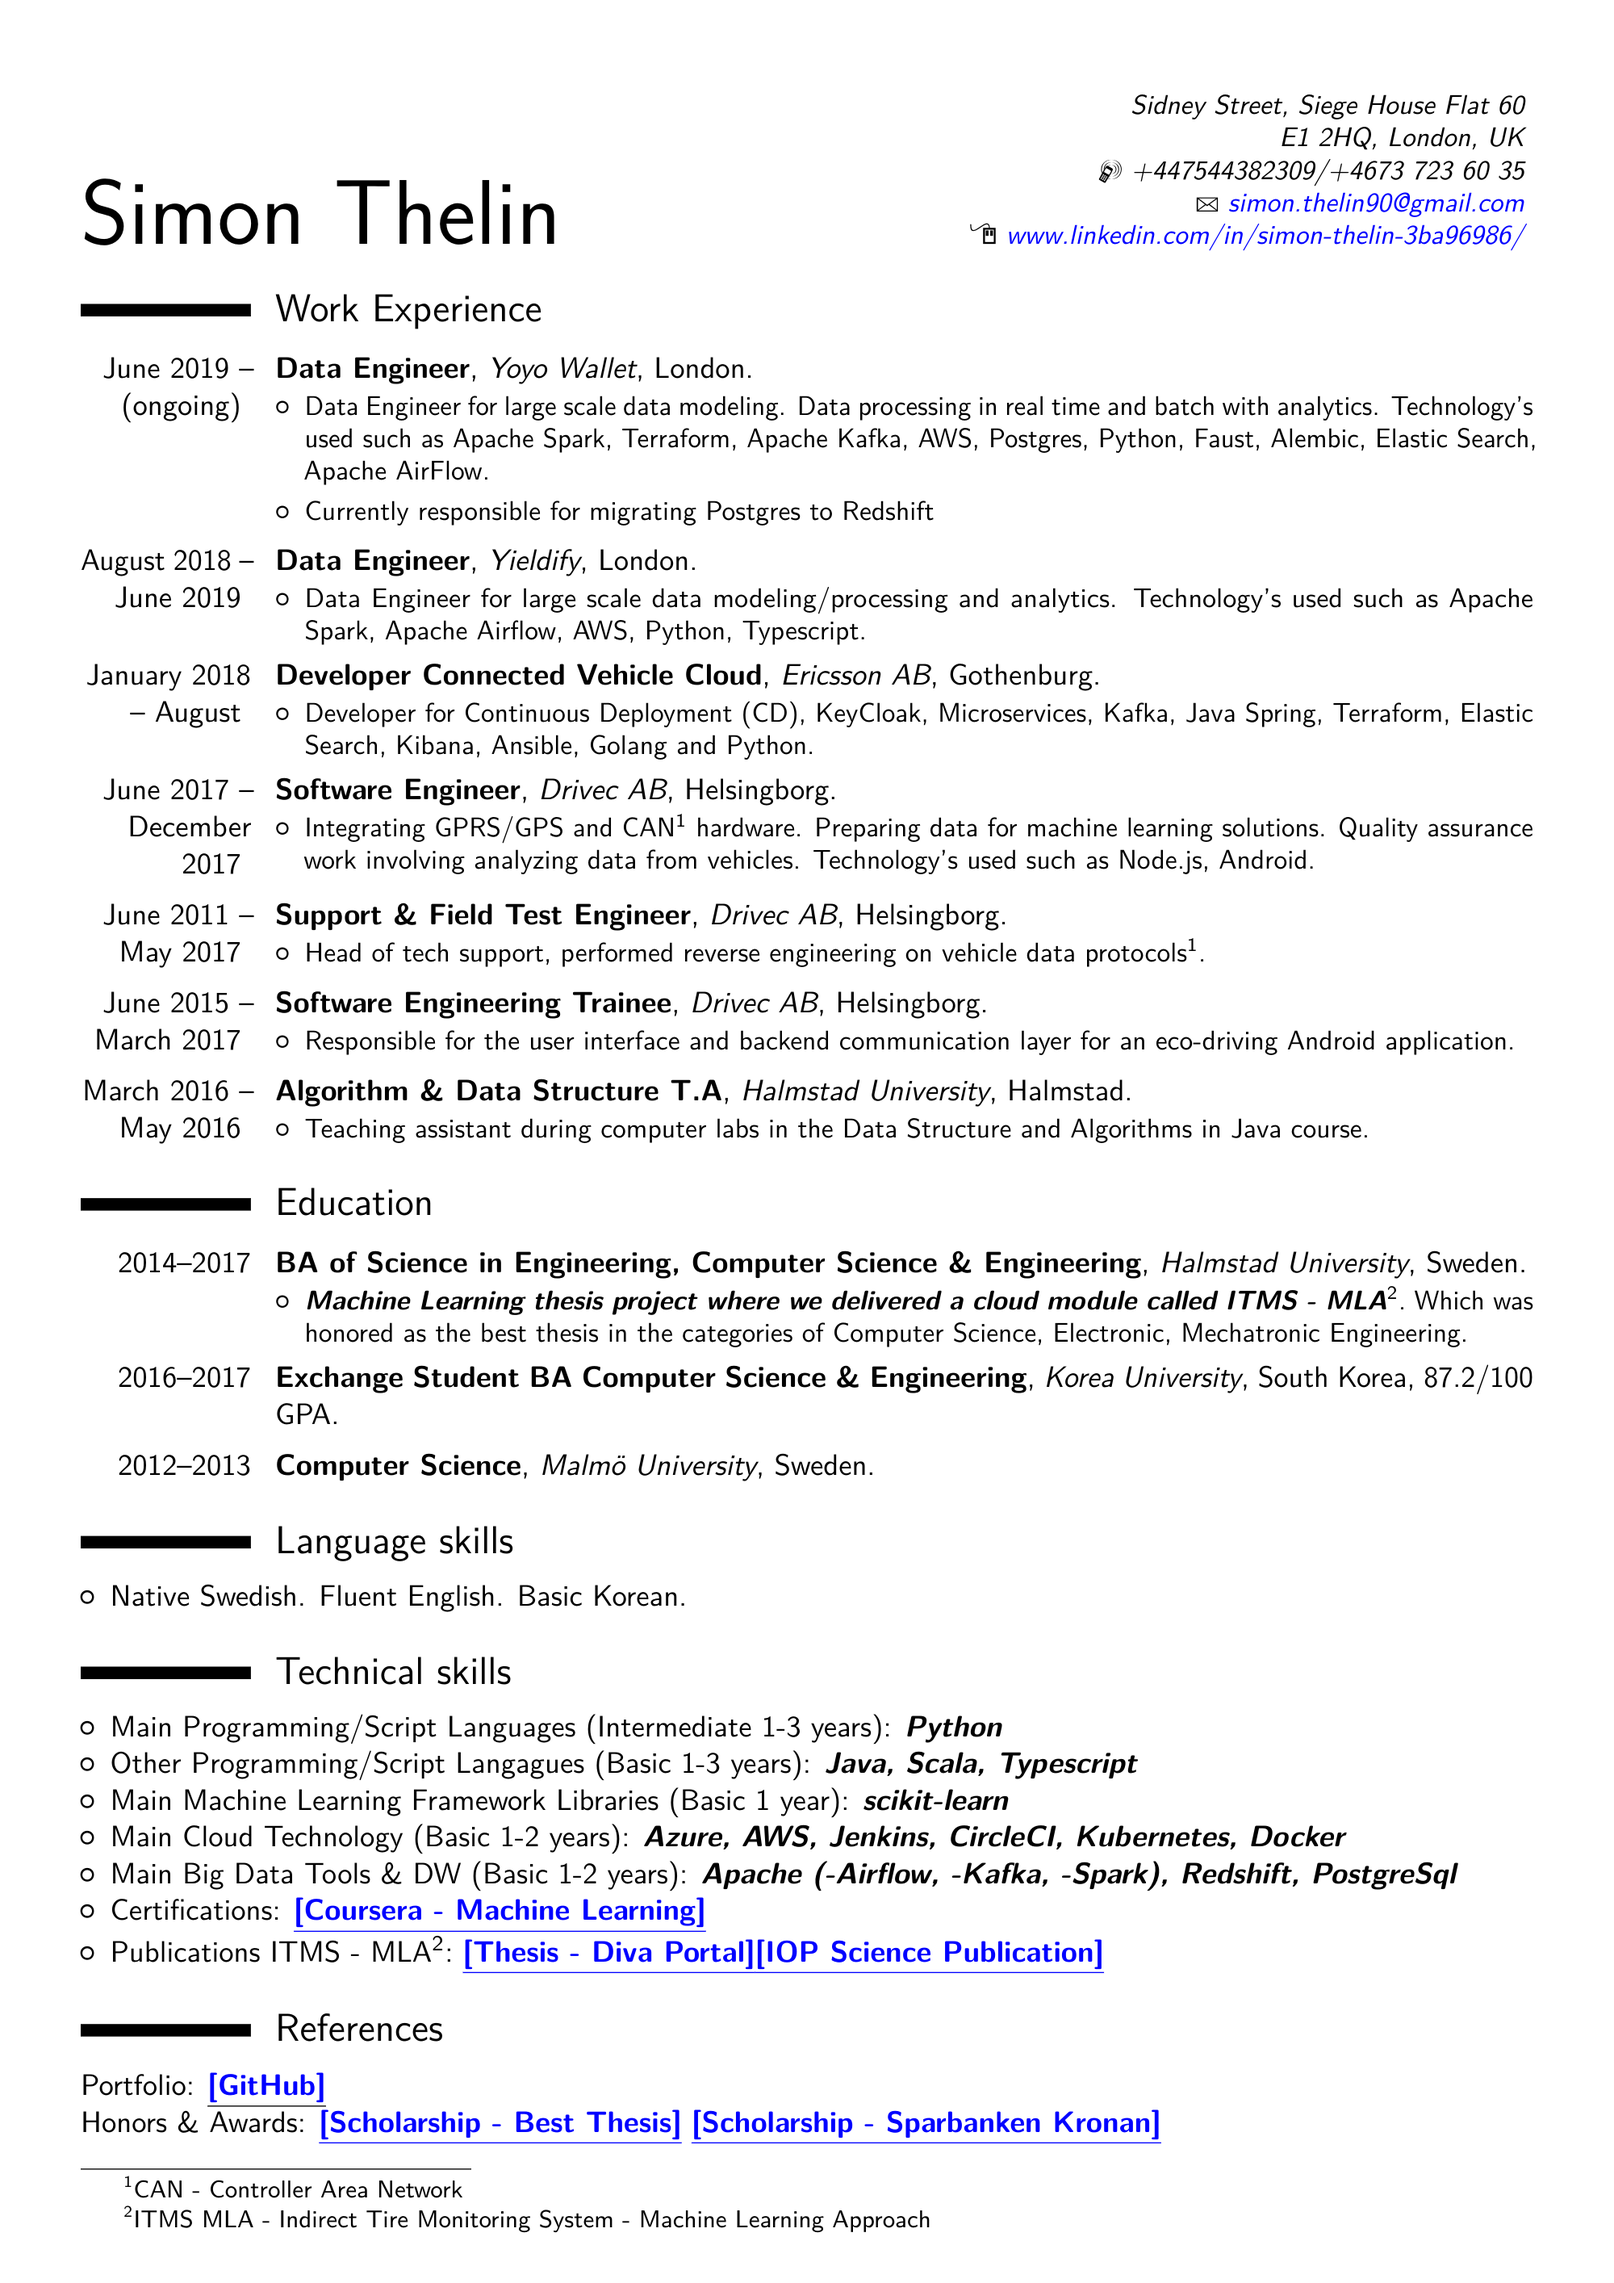
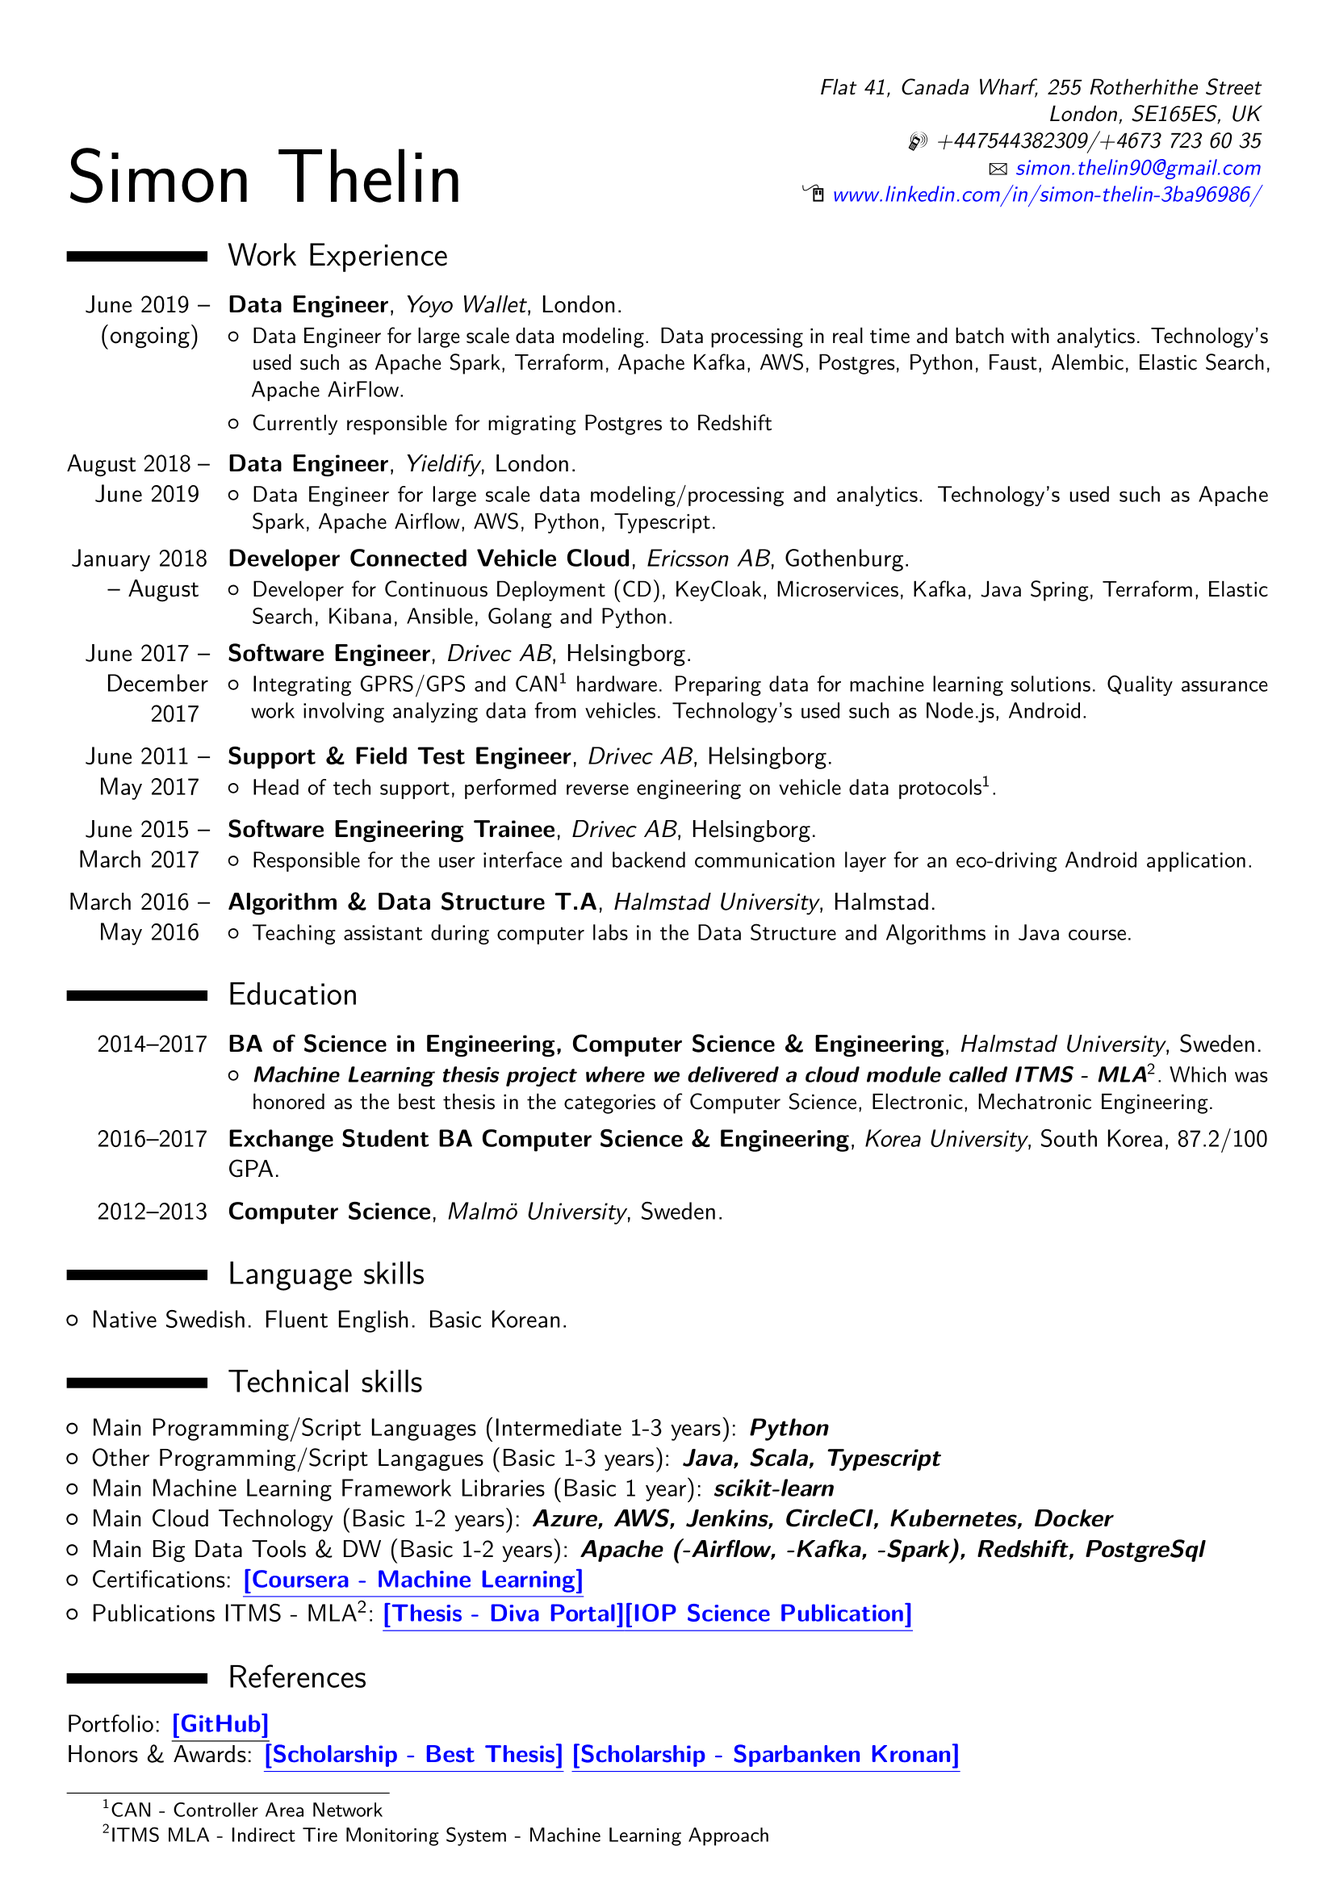
new-address

diff --git a/THELIN_SIMON_CV.tex b/THELIN_SIMON_CV.tex
@@ -41,7 +41,7 @@
 
 \usepackage[scale=0.90]{geometry}
 
-\address{Sidney Street, Siege House Flat 60}{E1 2HQ, London, UK}{}% optional, remove / comment the line if not wanted; the "postcode city" and and "country" arguments can be omitted or provid0731-560387ed empty
+\address{Flat 41, Canada Wharf, 255 Rotherhithe Street}{London, SE165ES, UK}{}% optional, remove / comment the line if not wanted; the "postcode city" and and "country" arguments can be omitted or provid0731-560387ed empty
 \phone[mobile]{+447544382309/+4673~723~60~35}                   %                   % optional, remove / comment the line if not wanted
 \email{simon.thelin90@gmail.com}
 
